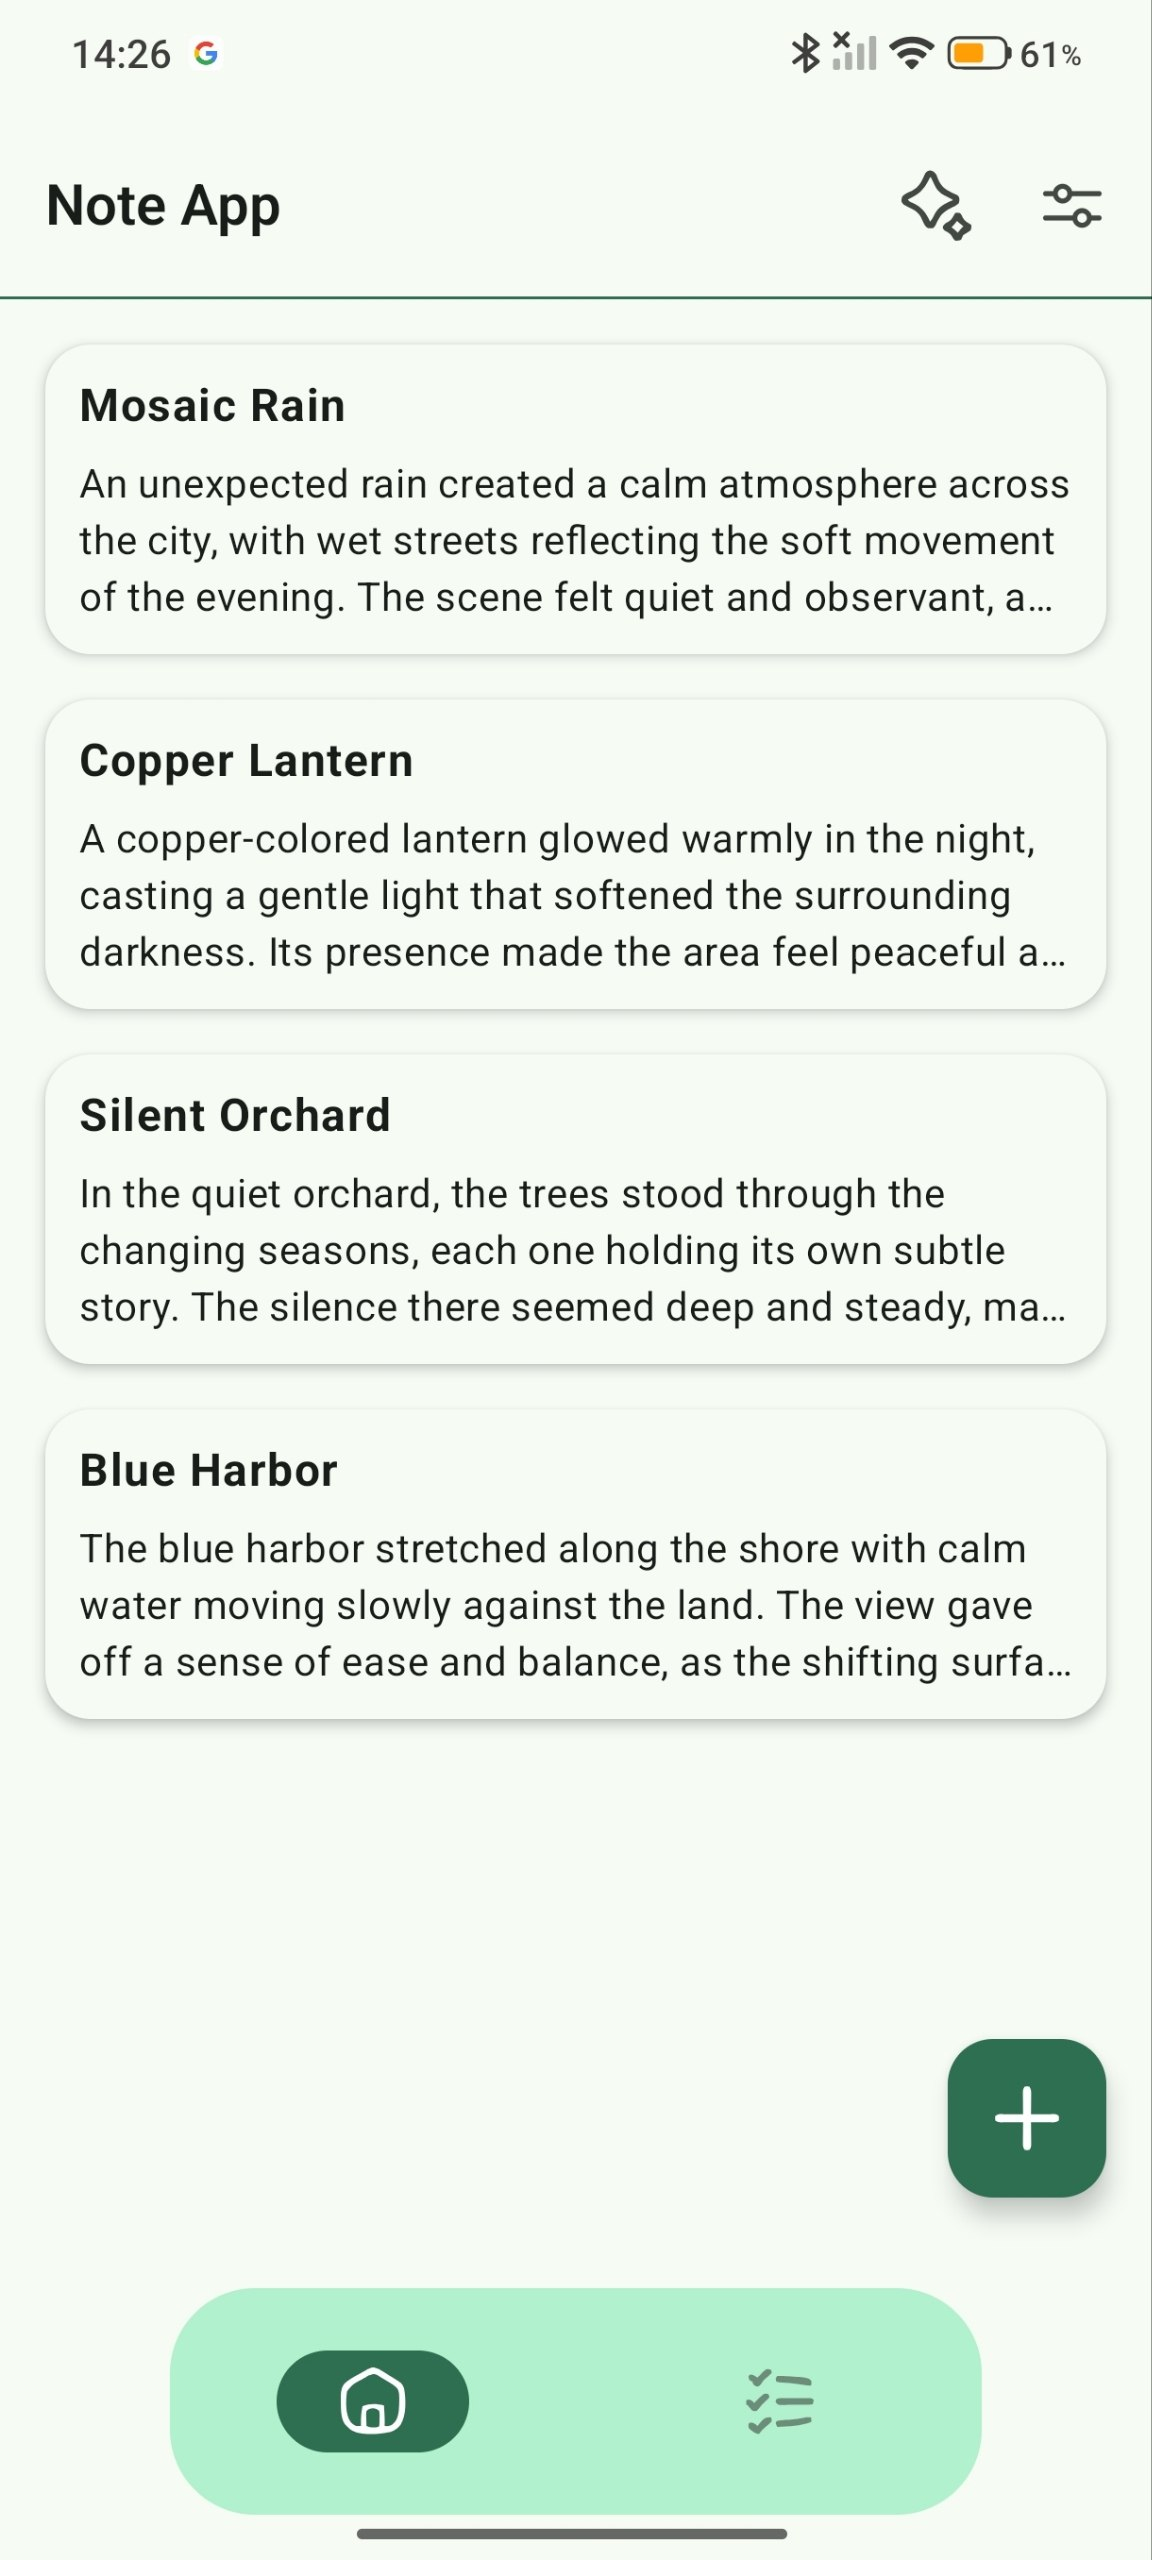
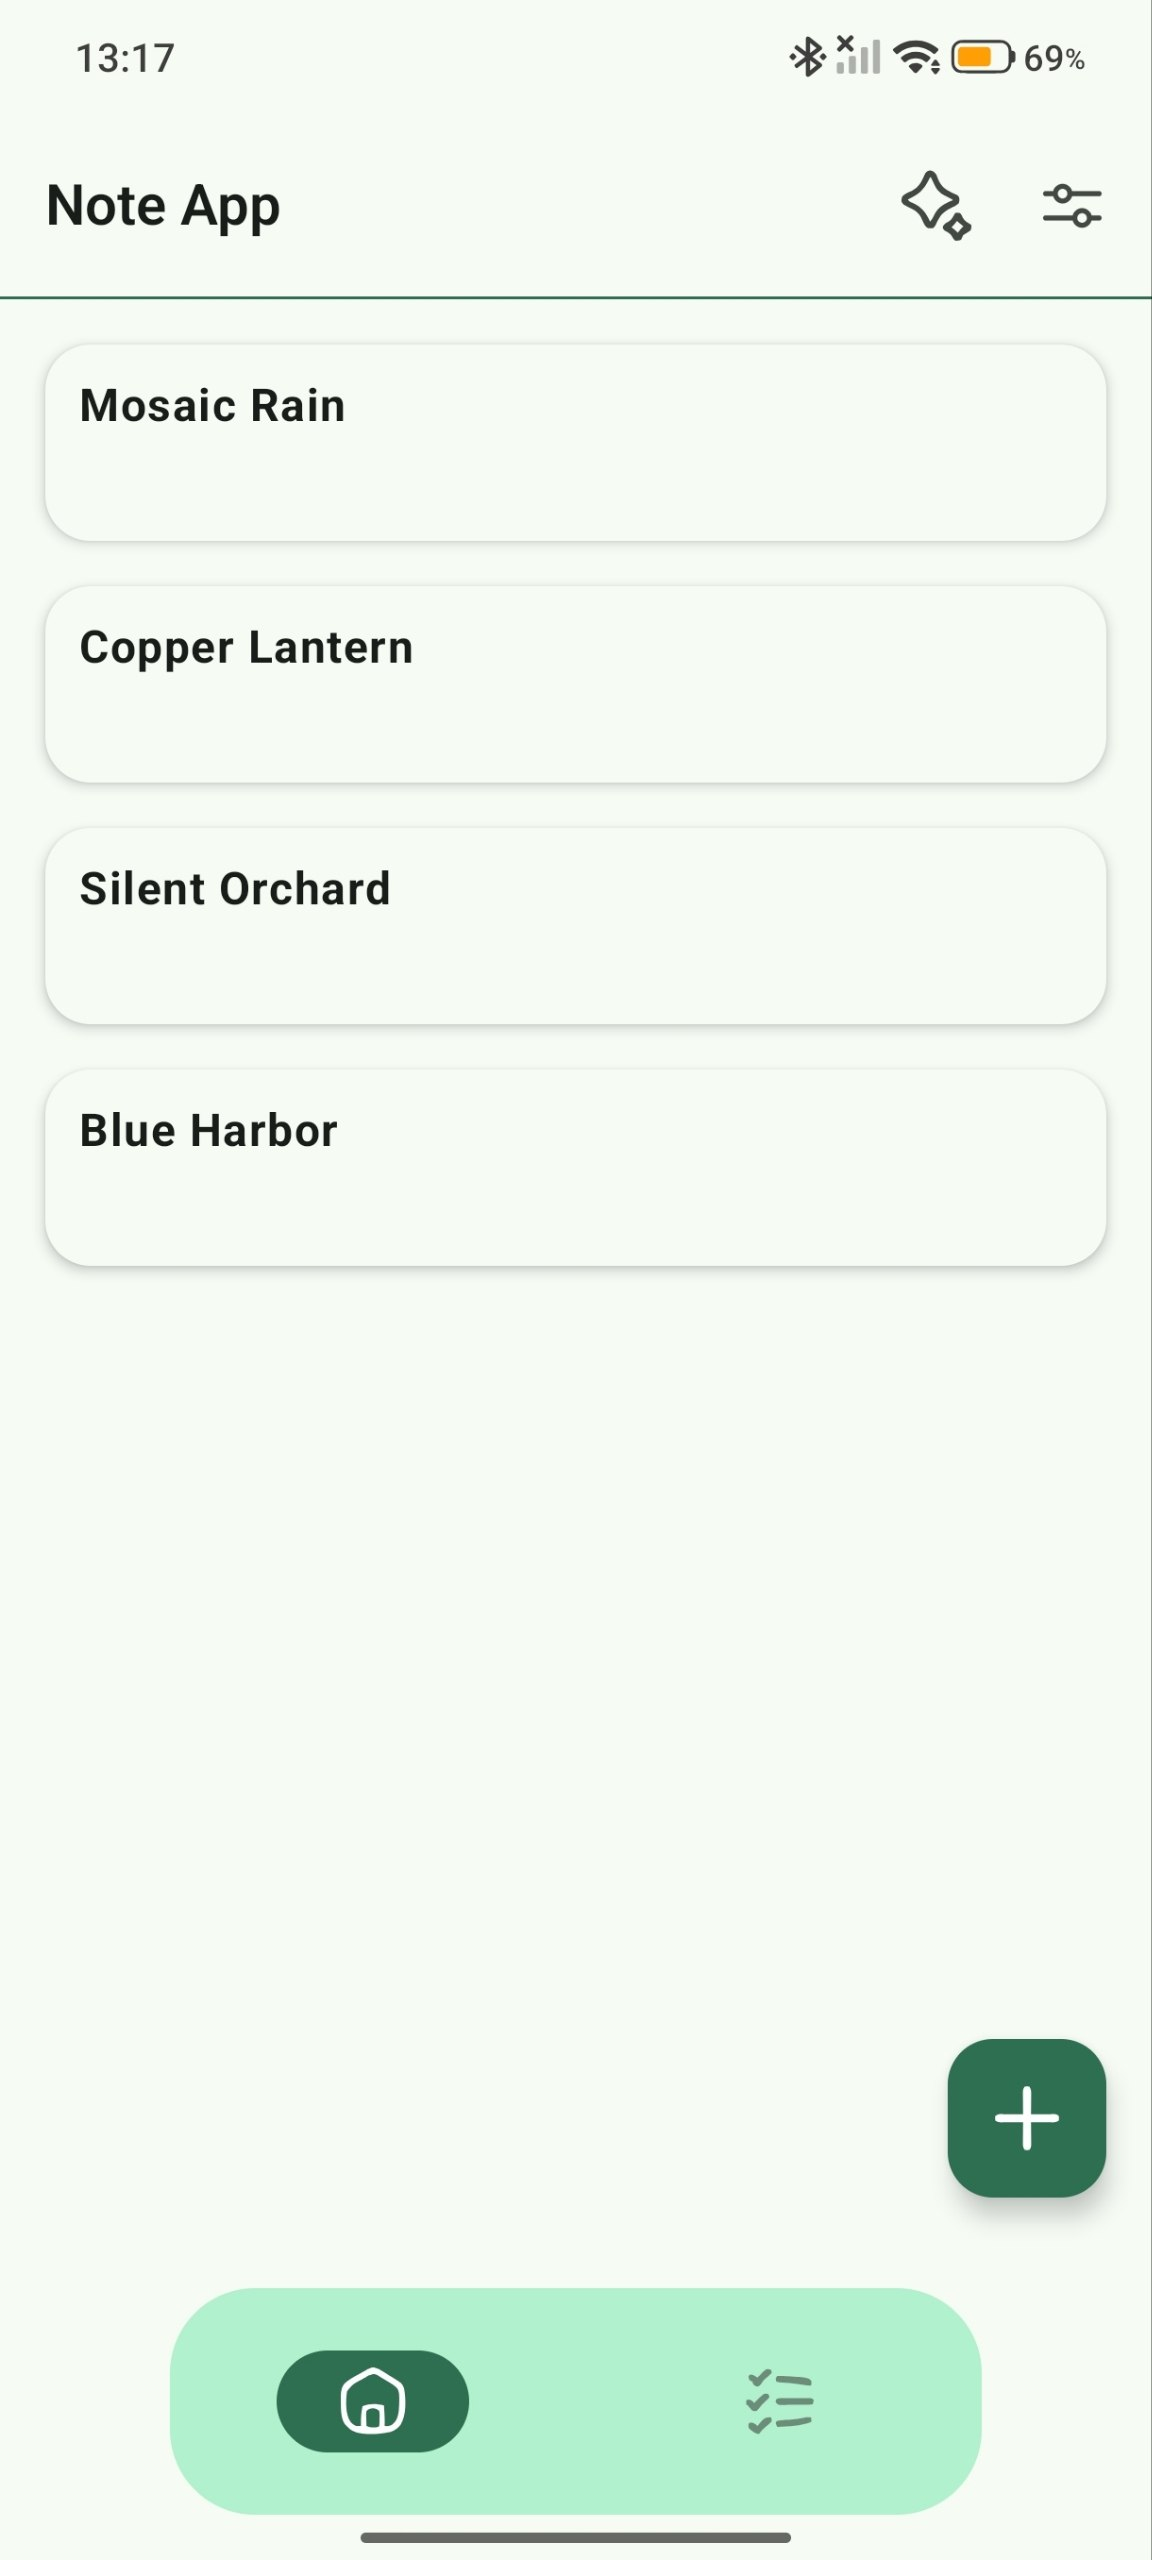
readme screenhsots and license is updated

diff --git a/README.md b/README.md
@@ -10,13 +10,12 @@
   <img src="https://img.shields.io/badge/Hilt-34A853?style=for-the-badge&logo=dagger&logoColor=white" alt="Hilt"/>
   <img src="https://img.shields.io/badge/Room-4285F4?style=for-the-badge&logo=sqlite&logoColor=white" alt="Room"/>
   <img src="https://img.shields.io/badge/Retrofit-48B983?style=for-the-badge&logo=square&logoColor=white" alt="Retrofit"/>
+  <img src="https://img.shields.io/badge/Node.js-339933?style=for-the-badge&logo=nodedotjs&logoColor=white" alt="Node.js"/>
+  <img src="https://img.shields.io/badge/MongoDB-47A248?style=for-the-badge&logo=mongodb&logoColor=white" alt="MongoDB"/>
   <img src="https://img.shields.io/badge/OpenAI%20(gpt--5.4--mini)-412991?style=for-the-badge&logo=openai&logoColor=white" alt="OpenAI"/>
 </p>
 
 <p align="center">
-  <img src="https://img.shields.io/badge/Coil-2C2C2C?style=flat-square" alt="Coil"/>
-  <img src="https://img.shields.io/badge/DataStore-4285F4?style=flat-square" alt="DataStore"/>
-  <img src="https://img.shields.io/badge/EncryptedSharedPreferences-34A853?style=flat-square" alt="Encrypted SharedPreferences"/>
   <img src="https://img.shields.io/badge/OkHttp-48B983?style=flat-square" alt="OkHttp"/>
   <img src="https://img.shields.io/badge/kotlinx.serialization-7F52FF?style=flat-square" alt="kotlinx.serialization"/>
   <img src="https://img.shields.io/badge/Navigation%20Compose-4285F4?style=flat-square" alt="Navigation Compose"/>
@@ -152,24 +151,17 @@ The assistant is intentionally scoped: it only acts on note/todo data it was act
 
 <p align="center">
   <img src="screenshots/chat-1-typing.jpg" width="220" alt="AI typing indicator"/>
-</p>
-<p align="center">
   <img src="screenshots/chat-1.jpg" width="220" alt="AI chat 1"/>
-</p>
-<p align="center">
   <img src="screenshots/chat-2.jpg" width="220" alt="AI chat 2"/>
 </p>
 <p align="center">
   <img src="screenshots/chat-3.jpg" width="220" alt="AI chat 3"/>
-</p>
-<p align="center">
   <img src="screenshots/chat-4.jpg" width="220" alt="AI chat 4"/>
-</p>
-<p align="center">
   <img src="screenshots/chat-6.jpg" width="220" alt="AI chat 6"/>
 </p>
 <p align="center">
   <img src="screenshots/chat-7.jpg" width="220" alt="AI chat 7"/>
+  <img src="screenshots/chat-8.jpg" width="220" alt="AI chat 8"/>
 </p>
 
 ## Notes & Todos — Offline Mode
@@ -181,26 +173,17 @@ Notes and todos are offline-first: every read comes straight from Room, and ever
 - **`AppNetworkManager`** wraps `ConnectivityManager.NetworkCallback` into a single `isConnected: StateFlow<Boolean>`.
 - **`NotesViewModel`/`TodoViewModel`** collect `isConnected`, and every time it flips to `true`, they call `syncNotes()`/`syncTodos()` in the background — no manual "sync" button needed.
 - **What sync actually does**, per repository:
-    1. Push locally-deleted items first: if the id `isLocal()` (never reached the server), just drop it locally; otherwise call the remote delete, then drop it locally.
-    2. Push every remaining unsynced item (`isSynced == false`): local-id items get created remotely and re-inserted with the server's real id; existing items get updated remotely.
-    3. Pull the full remote list and reconcile it into Room (`isSynced = true`), keeping each item's original local `createdAt` so ordering doesn't jump around after a sync.
+  1. Push locally-deleted items first: if the id `isLocal()` (never reached the server), just drop it locally; otherwise call the remote delete, then drop it locally.
+  2. Push every remaining unsynced item (`isSynced == false`): local-id items get created remotely and re-inserted with the server's real id; existing items get updated remotely.
+  3. Pull the full remote list and reconcile it into Room (`isSynced = true`), keeping each item's original local `createdAt` so ordering doesn't jump around after a sync.
 - All of this happens quietly in the background thread the ViewModel's `viewModelScope` runs on — the UI just keeps reading from the same local Room `Flow` throughout.
 
-| | Login | Register | Notes | Todo | Settings |
-|---|---|---|---|---|---|
-| **Light** | <img src="screenshots/login-light.jpg" width="140"/> | <img src="screenshots/register-lite.jpg" width="140"/> | <img src="screenshots/notes-simple.jpg" width="140"/> | <img src="screenshots/todo-light.jpg" width="140"/> | <img src="screenshots/help-settings-light.jpg" width="140"/> |
-| **Dark** | <img src="screenshots/login-dark%20.jpg" width="140"/> | <img src="screenshots/register-dark.jpg" width="140"/> | <img src="screenshots/notes-simple-dark.jpg" width="140"/> | <img src="screenshots/todo-dark.jpg" width="140"/> | <img src="screenshots/help-settings-dark.jpg" width="140"/> |
+First row is light theme, second row is dark theme:
 
-*(the "Settings" column above uses the Help & Settings screen, since it's the one with both a light and dark shot)*
-
-A few more screens that only exist in one theme:
-
-<p align="center">
-  <img src="screenshots/note-detail-light.jpg" width="150" alt="Note detail"/>
-  <img src="screenshots/settings-dark.jpg" width="150" alt="Settings"/>
-  <img src="screenshots/devices-settings-dark.jpg" width="150" alt="Devices settings"/>
-  <img src="screenshots/settings-language-bottomshet.jpg" width="150" alt="Language bottom sheet"/>
-</p>
+| Login | Register | Notes | Todo | Note Detail | Settings | Language |
+|---|---|---|---|---|---|---|
+| <img src="screenshots/login-light.jpg" width="110"/> | <img src="screenshots/register-lite.jpg" width="110"/> | <img src="screenshots/notes-simple.jpg" width="110"/> | <img src="screenshots/todo-light.jpg" width="110"/> | <img src="screenshots/note-detail-light.jpg" width="110"/> | <img src="screenshots/settings-light.jpeg" width="110"/> | <img src="screenshots/settings-language-bottomshet-light.jpg" width="110"/> |
+| <img src="screenshots/login-dark%20.jpg" width="110"/> | <img src="screenshots/register-dark.jpg" width="110"/> | <img src="screenshots/notes-simple-dark.jpg" width="110"/> | <img src="screenshots/todo-dark.jpg" width="110"/> | <img src="screenshots/note-deatil-dark.jpg" width="110"/> | <img src="screenshots/settings-dark.jpg" width="110"/> | <img src="screenshots/settings-language-bottomshet-dark.jpeg" width="110"/> |
 
 ## Setup
 
